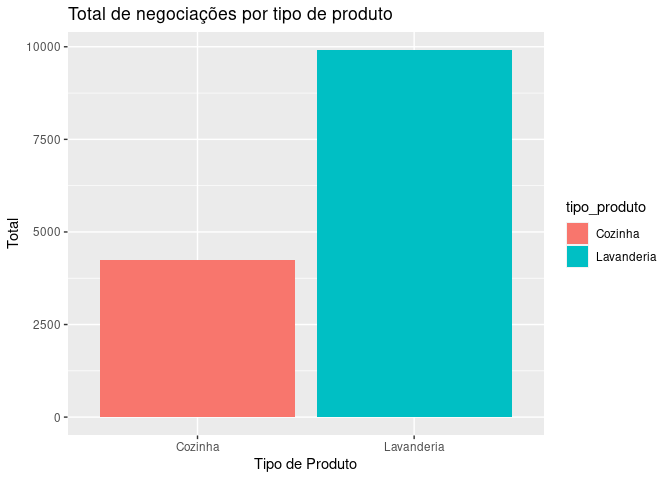
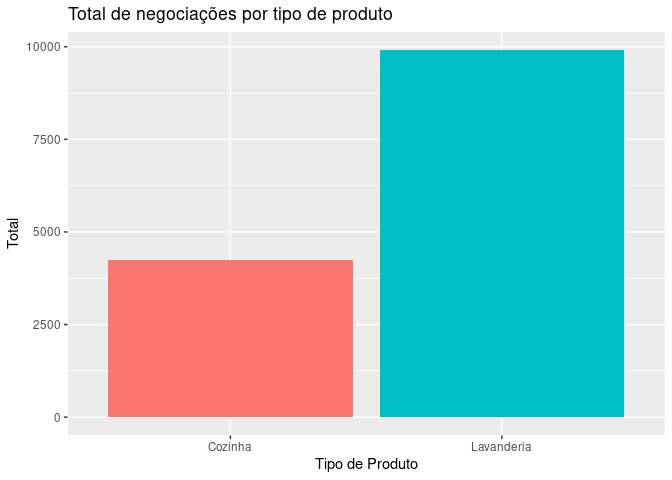
Corrigido o erro de uma legenda

diff --git a/estagio4i.md b/estagio4i.md
@@ -67,12 +67,6 @@ produtos negociados na base de dados.
 
 ![](estagio4i_files/figure-gfm/unnamed-chunk-3-1.png)<!-- -->
 
-    ## List of 1
-    ##  $ legend.position: chr "none"
-    ##  - attr(*, "class")= chr [1:2] "theme" "gg"
-    ##  - attr(*, "complete")= logi FALSE
-    ##  - attr(*, "validate")= logi TRUE
-
 Portanto, os produtos de lavanderia são a maior força da empresa, sendo
 responsáveis por mais de um terço das suas importações. Todavia, outra
 análise que pode ser feita é do total de produtos importados e não
